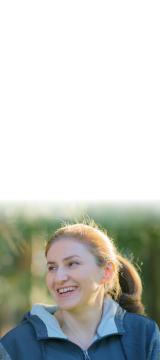
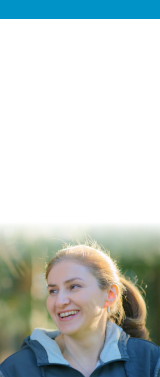
fix: address small issues

diff --git a/patient-banners/300x600/Banner_files/css/custom-styles.min.css b/patient-banners/300x600/Banner_files/css/custom-styles.min.css
@@ -1,1 +1,1 @@
-@import url(https://use.typekit.net/qps5ifc.css);@import url(https://fonts.googleapis.com/css2?family=Source+Sans+Pro:ital,wght@0,200;0,300;0,400;0,600;0,700;0,900;1,200;1,300;1,400;1,600;1,700;1,900&display=swap);@import url(https://fonts.googleapis.com/css2?family=Open+Sans&display=swap);*,a:active{outline:0}*,ol,ul{padding:0}*,:after,:before,body{box-sizing:border-box}*,.banner__frame--text p a:hover{text-decoration:none}.banner__frame--three .banner__frame--top,a{cursor:pointer}*,.h,.h1,.h2,.h3,.h4,.h5,.h6,h1,h2,h3,h4,h5,h6{margin:0}html{margin:0!important;-webkit-text-size-adjust:none}ol,ul{list-style:none}a img{border:none}button::-moz-focus-inner,input[type=button]::-moz-focus-inner,input[type=file]>input[type=button]::-moz-focus-inner,input[type=reset]::-moz-focus-inner,input[type=submit]::-moz-focus-inner{margin:0;border:0;padding:0}input[type=button],input[type=email],input[type=password],input[type=reset],input[type=submit],input[type=tel],input[type=text],textarea{-webkit-appearance:none;-moz-appearance:none;appearance:none}input::-moz-placeholder{opacity:1}input:-webkit-autofill{-webkit-box-shadow:inset 0 0 0 1000px #fff}table{width:100%;border-collapse:collapse}p{line-height:20px}a{color:inherit}img{max-width:100%}em,i{font-style:italic}body{background:#f5f5f5;display:block;font-family:"Source Sans Pro",sans-serif;color:#253a71}.bannerWrapper{display:flex;align-items:center;justify-content:center;width:100%;position:relative;height:100%}.banner__frame{width:300px;margin:0 auto;background:#fff;height:600px;opacity:1;position:absolute;top:auto;left:auto;border:1px solid #000;padding-top:26px}.banner__frame--top{background-image:url(../img/bg.jpg);height:383px;display:flex;align-items:center;justify-content:flex-start;padding:0;flex-direction:column}.banner__frame--line{position:absolute;top:0;left:0;height:16px;width:100%;background:#0093c7}.banner__frame--top h1{max-width:290px;margin:0 auto;text-align:center;font-weight:700;font-size:20px;line-height:26px;letter-spacing:-.01em}.banner__frame--top .btn{border:none;cursor:pointer;width:172px;height:36px;margin:18px auto 0;background:#0093c7;border-radius:30px;color:#fff;font-weight:600;font-size:19px;line-height:26px;display:flex;justify-content:center;align-items:center;font-family:'Open Sans',sans-serif}.banner__frame--logo{position:relative;width:100%;display:flex;align-items:center;justify-content:center;padding:0 10px 12px}.banner__frame--logo span{display:inline-flex;align-items:center;justify-content:center}.banner__frame--logo span:after{content:"";width:1px;background:#253a71;height:56px;position:absolute;right:50%;top:0;margin-right:4px}.banner__frame--logo span:last-of-type{margin-top:8px}.banner__frame--logo span:last-of-type:after{content:none}.banner__frame--logo span .cta-logo{height:40px}.banner__frame--logo img{width:115px}.banner__frame--bottom,.list li,.one{position:relative}#IsiContent,.banner__frame-anime,.list li:before{position:absolute}.banner__frame--bottom h3{margin:0;padding:7px 5px 4px;font-style:normal;font-weight:700;font-size:16px;line-height:17px;color:#253a71;letter-spacing:-.5px}.banner__frame--text{padding:10px;word-break:break-word}.banner__frame--text::-webkit-scrollbar-track{-webkit-box-shadow:inset 0 0 6px rgba(0,0,0,.05);background-color:#fff;border-radius:8px}.banner__frame--text::-webkit-scrollbar{width:4px;background-color:#fff}.banner__frame--text::-webkit-scrollbar-thumb{background-color:#253a71;border-radius:8px}.banner__frame--text h3{font-style:normal;font-weight:700;font-size:12px;line-height:14px;color:#253a71;margin-top:4px;padding:0}.banner__frame--text h4,.banner__frame--text p,.banner__frame--text ul li{font-style:normal;font-weight:400;font-size:11px;line-height:14px;color:#253a71;margin:0 0 6px;text-align:left}.banner__frame--text h4{font-weight:700;margin:8px 0 0;font-size:11px;line-height:14px}.banner__frame--border{margin-top:6px;border:.75px solid #000;padding:3px 5px}.banner__frame--border .not-margin,.banner__frame--text .mt-0{margin-top:0}.banner__frame--text ul{margin:0;padding:8px 0 0 6px}.banner__frame--text ul li{font-weight:400;margin:0;padding-bottom:6px}.banner__frame--text ul li strong{font-weight:700}.banner__frame--text p{font-weight:400;margin:8px 0 0}.banner__frame--text p a{text-decoration:underline}.banner__frame--text .pb-10{padding-bottom:10px}.banner__frame--text .mt-5{margin-top:5px;display:inline-block}.banner__frame--text img{margin:4px 0}.banner__frame--textFooter{display:flex;align-items:center;justify-content:space-between;margin-bottom:10px}.banner__frame--textFooter p,.one{margin:0}.banner__frame--footer{display:flex;align-items:center;justify-content:space-between;position:absolute;width:100%;left:0;bottom:-18px;padding:0 10px;height:20px}.banner__frame--footer a{font-weight:700;font-size:11px;line-height:11px;text-align:right;-webkit-text-decoration-line:underline;text-decoration-line:underline;color:#3e88c8}.banner__frame--one{animation:30s forwards fade-in-one}.banner__frame--two{animation:30s forwards fade-in-two}.banner__frame--three{animation:30s forwards fade-in-three;cursor:pointer}.banner__frame--top .banner__frame--three h1{font-weight:700;font-size:30px;line-height:30px;margin-top:16px}.list li{padding-left:13px}.list li:before{top:8px;left:0;content:'';width:3px;height:3px;border-radius:100%;background:#253a71}@keyframes fade-in-one{0%,35.3%,42.9%,7.6%,70.5%,78.1%{opacity:1}100%,33.1%,45%,68.4%,80.2%,9.7%{opacity:0}}@keyframes fade-in-two{0%,100%,19.4%,42.9%,54.7%,7.6%,78.1%,89.9%{opacity:0}17.3%,45%,52.6%,80.2%,87.8%,9.7%{opacity:1}}@keyframes fade-in-three{0%,17.3%,35.3%,52.6%,70.5%,87.8%{opacity:0}100%,19.4%,33.1%,54.7%,68.4%,89.9%{opacity:1}}#IsiContent{z-index:99999;top:84px;left:11px}.one{width:300px;height:205px;overflow:hidden}.bottomSectionOuter{position:relative;width:100%;max-width:320px}.banner__frame--top-body{text-align:center}.banner__frame .banner__frame--one .banner__frame--top-body{margin-top:6px}.banner__frame .banner__frame--two .banner__frame--top-body{margin-top:22px}
+@import url(https://use.typekit.net/qps5ifc.css);@import url(https://fonts.googleapis.com/css2?family=Source+Sans+Pro:ital,wght@0,200;0,300;0,400;0,600;0,700;0,900;1,200;1,300;1,400;1,600;1,700;1,900&display=swap);@import url(https://fonts.googleapis.com/css2?family=Open+Sans&display=swap);*,a:active{outline:0}*,ol,ul{padding:0}*,:after,:before,body{box-sizing:border-box}*,.banner__frame--text p a:hover{text-decoration:none}.banner__frame--three .banner__frame--top,a{cursor:pointer}*,.h,.h1,.h2,.h3,.h4,.h5,.h6,h1,h2,h3,h4,h5,h6{margin:0}html{margin:0!important;-webkit-text-size-adjust:none}ol,ul{list-style:none}a img{border:none}button::-moz-focus-inner,input[type=button]::-moz-focus-inner,input[type=file]>input[type=button]::-moz-focus-inner,input[type=reset]::-moz-focus-inner,input[type=submit]::-moz-focus-inner{margin:0;border:0;padding:0}input[type=button],input[type=email],input[type=password],input[type=reset],input[type=submit],input[type=tel],input[type=text],textarea{-webkit-appearance:none;-moz-appearance:none;appearance:none}input::-moz-placeholder{opacity:1}input:-webkit-autofill{-webkit-box-shadow:inset 0 0 0 1000px #fff}table{width:100%;border-collapse:collapse}p{line-height:20px}a{color:inherit}img{max-width:100%}em,i{font-style:italic}body{background:#f5f5f5;display:block;font-family:"Source Sans Pro",sans-serif;color:#253a71}.bannerWrapper{display:flex;align-items:center;justify-content:center;width:100%;position:relative;height:100%}.banner__frame{width:300px;margin:0 auto;background:#fff;height:600px;opacity:1;position:absolute;top:auto;left:auto;border:1px solid #000;padding-top:16px}.banner__frame--top{background-image:url(../img/bg.jpg);height:393px;display:flex;align-items:center;justify-content:flex-start;padding:0;padding-top:10px;flex-direction:column}.banner__frame--line{position:absolute;top:0;left:0;height:16px;width:100%;background:#0093c7}.banner__frame--top h1{max-width:290px;margin:0 auto;text-align:center;font-weight:700;font-size:20px;line-height:26px;letter-spacing:-.01em}.banner__frame--top .btn{border:none;cursor:pointer;width:172px;height:36px;margin:18px auto 0;background:#0093c7;border-radius:30px;color:#fff;font-weight:600;font-size:19px;line-height:26px;display:flex;justify-content:center;align-items:center;font-family:'Open Sans',sans-serif}.banner__frame--logo{position:relative;width:100%;display:flex;align-items:center;justify-content:center;padding:0 10px 0px 10px}.banner__frame--logo span{display:inline-flex;align-items:center;justify-content:center}.banner__frame--logo span:after{content:"";width:1px;background:#253a71;height:56px;position:absolute;right:50%;top:0;margin-right:4px}.banner__frame--logo span:last-of-type{margin-top:8px}.banner__frame--logo span:last-of-type:after{content:none}.banner__frame--logo span .cta-logo{height:40px}.banner__frame--logo img{width:115px}.banner__frame--bottom,.list li,.one{position:relative}#IsiContent,.banner__frame-anime,.list li:before{position:absolute}.banner__frame--bottom h3{margin:0;padding:7px 5px 4px;font-style:normal;font-weight:700;font-size:16px;line-height:17px;color:#253a71;letter-spacing:-.5px}.banner__frame--text{padding:10px;word-break:break-word}.banner__frame--text::-webkit-scrollbar-track{-webkit-box-shadow:inset 0 0 6px rgba(0,0,0,.05);background-color:#fff;border-radius:8px}.banner__frame--text::-webkit-scrollbar{width:4px;background-color:#fff}.banner__frame--text::-webkit-scrollbar-thumb{background-color:#253a71;border-radius:8px}.banner__frame--text h3{font-style:normal;font-weight:700;font-size:12px;line-height:14px;color:#253a71;margin-top:4px;padding:0}.banner__frame--text h4,.banner__frame--text p,.banner__frame--text ul li{font-style:normal;font-weight:400;font-size:11px;line-height:14px;color:#253a71;margin:0 0 6px;text-align:left}.banner__frame--text h4{font-weight:700;margin:8px 0 0;font-size:11px;line-height:14px}.banner__frame--border{margin-top:6px;border:.75px solid #000;padding:3px 5px}.banner__frame--border .not-margin,.banner__frame--text .mt-0{margin-top:0}.banner__frame--text ul{margin:0;padding:8px 0 0 6px}.banner__frame--text ul li{font-weight:400;margin:0;padding-bottom:6px}.banner__frame--text ul li strong{font-weight:700}.banner__frame--text p{font-weight:400;margin:8px 0 0}.banner__frame--text p a{text-decoration:underline}.banner__frame--text .pb-10{padding-bottom:10px}.banner__frame--text .mt-5{margin-top:5px;display:inline-block}.banner__frame--text img{margin:4px 0}.banner__frame--textFooter{display:flex;align-items:center;justify-content:space-between;margin-bottom:10px}.banner__frame--textFooter p,.one{margin:0}.banner__frame--footer{display:flex;align-items:center;justify-content:space-between;position:absolute;width:100%;left:0;bottom:-18px;padding:0 10px;height:20px}.banner__frame--footer a{font-weight:700;font-size:11px;line-height:11px;text-align:right;-webkit-text-decoration-line:underline;text-decoration-line:underline;color:#3e88c8}.banner__frame--one{animation:30s forwards fade-in-one}.banner__frame--two{animation:30s forwards fade-in-two}.banner__frame--three{animation:30s forwards fade-in-three;cursor:pointer}.banner__frame--top .banner__frame--three h1{font-weight:700;font-size:30px;line-height:30px;margin-top:16px}.list li{padding-left:13px}.list li:before{top:8px;left:0;content:'';width:3px;height:3px;border-radius:100%;background:#253a71}@keyframes fade-in-one{0%,35.3%,42.9%,7.6%,70.5%,78.1%{opacity:1}100%,33.1%,45%,68.4%,80.2%,9.7%{opacity:0}}@keyframes fade-in-two{0%,100%,19.4%,42.9%,54.7%,7.6%,78.1%,89.9%{opacity:0}17.3%,45%,52.6%,80.2%,87.8%,9.7%{opacity:1}}@keyframes fade-in-three{0%,17.3%,35.3%,52.6%,70.5%,87.8%{opacity:0}100%,19.4%,33.1%,54.7%,68.4%,89.9%{opacity:1}}#IsiContent{z-index:99999;top:84px;left:11px}.one{width:300px;height:205px;overflow:hidden}.bottomSectionOuter{position:relative;width:100%;max-width:320px}.banner__frame--top-body{text-align:center}.banner__frame .banner__frame--one .banner__frame--top-body{margin-top:6px}.banner__frame .banner__frame--two .banner__frame--top-body{margin-top:22px}

diff --git a/patient-banners/160x600/Banner_files/css/custom-styles.min.css b/patient-banners/160x600/Banner_files/css/custom-styles.min.css
@@ -1,1 +1,1 @@
-@import url(https://fonts.googleapis.com/css2?family=Source+Sans+Pro:ital,wght@0,200;0,300;0,400;0,600;0,700;0,900;1,200;1,300;1,400;1,600;1,700;1,900&display=swap);@import url(https://fonts.googleapis.com/css2?family=Open+Sans&display=swap);*,a:active{outline:0}*,ol,ul{padding:0}*,:after,:before,body{box-sizing:border-box}*,.banner__frame--text p a:hover{text-decoration:none}.banner__frame--text .mt-0.underline,.banner__frame--text p a{text-decoration:underline}.banner__frame--three .banner__frame--top,a{cursor:pointer}.banner__frame p,.banner__frame--top-body{text-align:center}*,.h,.h1,.h2,.h3,.h4,.h5,.h6,h1,h2,h3,h4,h5,h6{margin:0}html{margin:0!important;-webkit-text-size-adjust:none}ol,ul{list-style:none}a img{border:none}button::-moz-focus-inner,input[type=button]::-moz-focus-inner,input[type=file]>input[type=button]::-moz-focus-inner,input[type=reset]::-moz-focus-inner,input[type=submit]::-moz-focus-inner{margin:0;border:0;padding:0}input[type=button],input[type=email],input[type=password],input[type=reset],input[type=submit],input[type=tel],input[type=text],textarea{-webkit-appearance:none;-moz-appearance:none;appearance:none}input::-moz-placeholder{opacity:1}input:-webkit-autofill{-webkit-box-shadow:inset 0 0 0 1000px #fff}table{width:100%;border-collapse:collapse}p{line-height:20px}a{color:inherit}img{max-width:100%}em,i{font-style:italic}body{background:#fff;display:block;font-family:"Source Sans Pro",sans-serif;color:#253a71}.bannerWrapper{display:flex;align-items:center;justify-content:center;width:100%;position:relative;height:100%}.banner__frame--logo,.banner__frame--top{display:flex;align-items:center;padding:0}.banner__frame{width:160px;margin:0 auto;background:#fff;height:600px;opacity:1;position:absolute;top:auto;left:auto;border:1px solid #000}.banner__frame--bottom,.bottomSectionOuter,.list li,.one{position:relative}.banner__frame--top{background-image:url(../img/bg.jpg);height:376px;justify-content:flex-start;flex-direction:column}.banner__frame--top h1{font-weight:700;font-size:20px;line-height:24px;text-align:center;letter-spacing:-.01em}.banner__frame--top h1 strong{font-weight:700}.banner__frame--top h1 span{letter-spacing:-.03em}.banner__frame .banner__frame--one h1{margin-top:6px}.banner__frame .banner__frame--two h1{margin-top:24px}.banner__frame--top .btn{border:none;cursor:pointer;width:150px;height:30px;border-radius:30px;background-color:#0093c7;color:#fff;font-size:16px;line-height:22px;margin:26px auto 0;font-family:'Open Sans',sans-serif}.banner__frame--logo{position:relative;width:100%;justify-content:center;margin-top:31px}#IsiContent,.banner__frame-anime,.list li:before{position:absolute}.banner__frame--logo span{display:inline-flex;align-items:center;justify-content:center;width:100%}.banner__frame p{font-weight:400;font-size:19px;line-height:23px;color:#253a71;letter-spacing:-.5px}.banner__frame p strong{font-weight:700}.banner__frame--bottom h3{margin:0;padding:7px 5px 4px;font-style:normal;font-weight:700;font-size:16px;line-height:17px;color:#253a71;letter-spacing:-.5px}.banner__frame--text{padding:0 6px;word-break:break-word}.banner__frame--text::-webkit-scrollbar-track{-webkit-box-shadow:inset 0 0 6px rgba(0,0,0,.05);background-color:#fff;border-radius:8px}.banner__frame--text::-webkit-scrollbar{width:4px;background-color:#fff}.banner__frame--text::-webkit-scrollbar-thumb{background-color:#253a71;border-radius:8px}.banner__frame--text h3{font-style:normal;font-weight:700;font-size:11px;line-height:14px;color:#253a71;margin:0;padding:0}.banner__frame--text h4,.banner__frame--text p,.banner__frame--text ul li{font-style:normal;font-weight:400;font-size:11px;line-height:14px;color:#253a71;margin:0 0 6px;text-align:left}.banner__frame--text h4{font-weight:700;margin:8px 0 0;font-size:11px;line-height:14px}.banner__frame--border{margin-top:10px;border:.75px solid #000;padding:2px 4px}.banner__frame--border .not-margin,.banner__frame--text .mt-0{margin-top:0}.banner__frame--text ul{margin:0;padding:8px 0 0 6px}.banner__frame--text ul li{font-weight:400;margin:0;padding-bottom:6px}.banner__frame--text ul li strong{font-weight:700}.banner__frame--text p{font-weight:400;margin:8px 0 0}.banner__frame--text .pb-10{padding-bottom:10px}.banner__frame--text .mt-5{margin-top:5px;display:inline-block}.banner__frame--text .mb-5{margin-bottom:5px;display:inline-block}.banner__frame--text img{margin:4px 0}.banner__frame--one{animation:30s forwards fade-in-one}.banner__frame--two{animation:30s forwards fade-in-two}.banner__frame--top .banner__frame--two small{font-style:italic;font-weight:700;font-size:18px;line-height:19px;color:#0093c7;display:inline-block}.banner__frame--three{animation:30s forwards fade-in-three;cursor:pointer}.banner__frame--top .banner__frame--three h1{font-weight:700;font-size:29px;line-height:30px;letter-spacing:-.01em;margin-top:22px}.list li{padding-left:13px}.list li:before{top:8px;left:0;content:'';width:3px;height:3px;border-radius:100%;background:#253a71}@keyframes fade-in-one{0%,35.3%,42.9%,7.6%,70.5%,78.1%{opacity:1}100%,33.1%,45%,68.4%,80.2%,9.7%{opacity:0}}@keyframes fade-in-two{0%,100%,19.4%,42.9%,54.7%,7.6%,78.1%,89.9%{opacity:0}17.3%,45%,52.6%,80.2%,87.8%,9.7%{opacity:1}}@keyframes fade-in-three{0%,17.3%,35.3%,52.6%,70.5%,87.8%{opacity:0}100%,19.4%,33.1%,54.7%,68.4%,89.9%{opacity:1}}#IsiContent{z-index:99999;top:84px}.one{width:160px;height:210px;overflow:hidden;margin:0 0 0 5px}.bottomSectionOuter{width:100%;max-width:170px}#scrollspeed,.adverse-reactions strong br,.heart-beat br{display:none}
+@import url(https://fonts.googleapis.com/css2?family=Source+Sans+Pro:ital,wght@0,200;0,300;0,400;0,600;0,700;0,900;1,200;1,300;1,400;1,600;1,700;1,900&display=swap);@import url(https://fonts.googleapis.com/css2?family=Open+Sans&display=swap);*,a:active{outline:0}*,ol,ul{padding:0}*,:after,:before,body{box-sizing:border-box}*,.banner__frame--text p a:hover{text-decoration:none}.banner__frame--text .mt-0.underline,.banner__frame--text p a{text-decoration:underline}.banner__frame--three .banner__frame--top,a{cursor:pointer}.banner__frame p,.banner__frame--top-body{text-align:center}*,.h,.h1,.h2,.h3,.h4,.h5,.h6,h1,h2,h3,h4,h5,h6{margin:0}html{margin:0!important;-webkit-text-size-adjust:none}ol,ul{list-style:none}a img{border:none}button::-moz-focus-inner,input[type=button]::-moz-focus-inner,input[type=file]>input[type=button]::-moz-focus-inner,input[type=reset]::-moz-focus-inner,input[type=submit]::-moz-focus-inner{margin:0;border:0;padding:0}input[type=button],input[type=email],input[type=password],input[type=reset],input[type=submit],input[type=tel],input[type=text],textarea{-webkit-appearance:none;-moz-appearance:none;appearance:none}input::-moz-placeholder{opacity:1}input:-webkit-autofill{-webkit-box-shadow:inset 0 0 0 1000px #fff}table{width:100%;border-collapse:collapse}p{line-height:20px}a{color:inherit}img{max-width:100%}em,i{font-style:italic}body{background:#fff;display:block;font-family:"Source Sans Pro",sans-serif;color:#253a71}.bannerWrapper{display:flex;align-items:center;justify-content:center;width:100%;position:relative;height:100%}.banner__frame--logo,.banner__frame--top{display:flex;align-items:center;padding:0}.banner__frame{width:160px;margin:0 auto;background:#fff;height:600px;opacity:1;position:absolute;top:auto;left:auto;border:1px solid #000}.banner__frame--bottom,.bottomSectionOuter,.list li,.one{position:relative}.banner__frame--top{background-image:url(../img/bg.jpg);height:376px;justify-content:flex-start;flex-direction:column}.banner__frame--top h1{font-weight:700;font-size:20px;line-height:22px;text-align:center;letter-spacing:-.01em}.banner__frame--top h1 strong{font-weight:700}.banner__frame--top h1 span{letter-spacing:-.03em}.banner__frame .banner__frame--one h1{margin-top:6px}.banner__frame .banner__frame--two h1{margin-top:24px}.banner__frame--top .btn{border:none;cursor:pointer;width:150px;height:30px;border-radius:30px;background-color:#0093c7;color:#fff;font-size:16px;line-height:22px;margin:26px auto 0;font-family:'Open Sans',sans-serif}.banner__frame--logo{position:relative;width:100%;justify-content:center;margin-top:31px}#IsiContent,.banner__frame-anime,.list li:before{position:absolute}.banner__frame--logo span{display:inline-flex;align-items:center;justify-content:center;width:100%}.banner__frame p{font-weight:400;font-size:19px;line-height:23px;color:#253a71;letter-spacing:-.5px}.banner__frame p strong{font-weight:700}.banner__frame--bottom h3{margin:0;padding:7px 5px 4px;font-style:normal;font-weight:700;font-size:16px;line-height:17px;color:#253a71;letter-spacing:-.5px}.banner__frame--text{padding:0 6px;word-break:break-word}.banner__frame--text::-webkit-scrollbar-track{-webkit-box-shadow:inset 0 0 6px rgba(0,0,0,.05);background-color:#fff;border-radius:8px}.banner__frame--text::-webkit-scrollbar{width:4px;background-color:#fff}.banner__frame--text::-webkit-scrollbar-thumb{background-color:#253a71;border-radius:8px}.banner__frame--text h3{font-style:normal;font-weight:700;font-size:11px;line-height:14px;color:#253a71;margin:0;padding:0}.banner__frame--text h4,.banner__frame--text p,.banner__frame--text ul li{font-style:normal;font-weight:400;font-size:11px;line-height:14px;color:#253a71;margin:0 0 6px;text-align:left}.banner__frame--text h4{font-weight:700;margin:8px 0 0;font-size:11px;line-height:14px}.banner__frame--border{margin-top:10px;border:.75px solid #000;padding:2px 4px}.banner__frame--border .not-margin,.banner__frame--text .mt-0{margin-top:0}.banner__frame--text ul{margin:0;padding:8px 0 0 6px}.banner__frame--text ul li{font-weight:400;margin:0;padding-bottom:6px}.banner__frame--text ul li strong{font-weight:700}.banner__frame--text p{font-weight:400;margin:8px 0 0}.banner__frame--text .pb-10{padding-bottom:10px}.banner__frame--text .mt-5{margin-top:5px;display:inline-block}.banner__frame--text .mb-5{margin-bottom:5px;display:inline-block}.banner__frame--text img{margin:4px 0}.banner__frame--one{animation:30s forwards fade-in-one}.banner__frame--two{animation:30s forwards fade-in-two}.banner__frame--top .banner__frame--two small{font-style:italic;font-weight:700;font-size:18px;line-height:19px;color:#0093c7;display:inline-block}.banner__frame--three{animation:30s forwards fade-in-three;cursor:pointer}.banner__frame--top .banner__frame--three h1{font-weight:700;font-size:29px;line-height:30px;letter-spacing:-.01em;margin-top:22px}.list li{padding-left:13px}.list li:before{top:8px;left:0;content:'';width:3px;height:3px;border-radius:100%;background:#253a71}@keyframes fade-in-one{0%,35.3%,42.9%,7.6%,70.5%,78.1%{opacity:1}100%,33.1%,45%,68.4%,80.2%,9.7%{opacity:0}}@keyframes fade-in-two{0%,100%,19.4%,42.9%,54.7%,7.6%,78.1%,89.9%{opacity:0}17.3%,45%,52.6%,80.2%,87.8%,9.7%{opacity:1}}@keyframes fade-in-three{0%,17.3%,35.3%,52.6%,70.5%,87.8%{opacity:0}100%,19.4%,33.1%,54.7%,68.4%,89.9%{opacity:1}}#IsiContent{z-index:99999;top:84px}.one{width:160px;height:210px;overflow:hidden;margin:0 0 0 5px}.bottomSectionOuter{width:100%;max-width:170px}#scrollspeed,.adverse-reactions strong br,.heart-beat br{display:none} .banner__frame--top-body-reduced{line-height: 1;}
